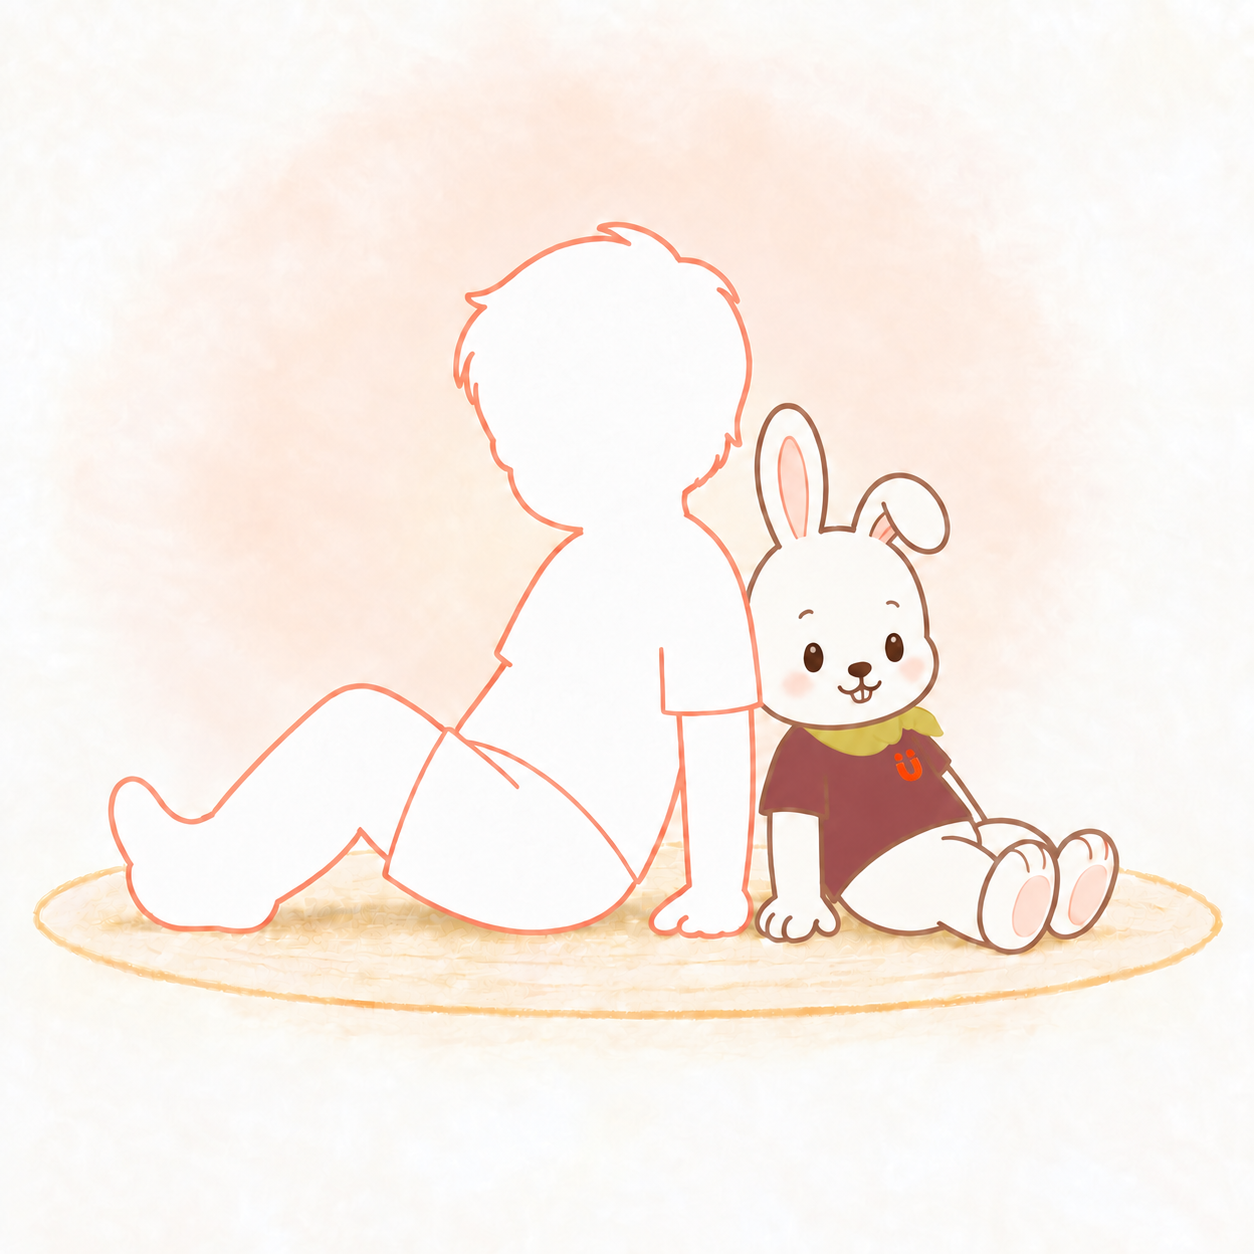
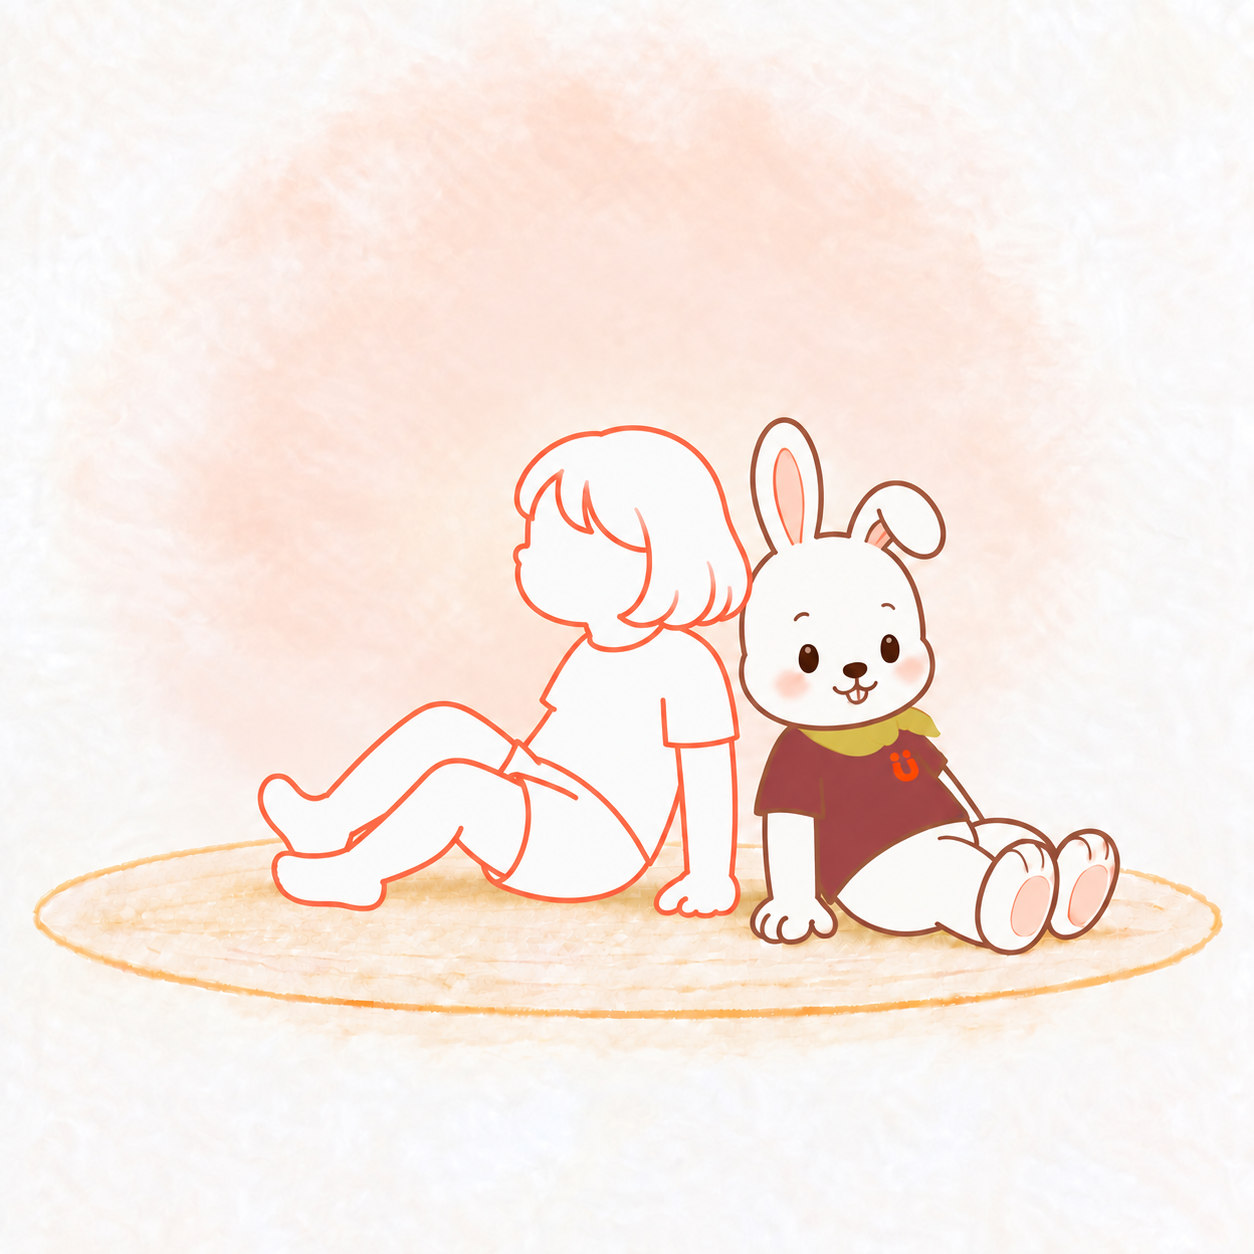
Unify child appearance and refine poses in Gen introduction

Changed region(s): [[0.0311, 0.1555, 0.9019, 0.8086], [0.1244, 0.7775, 0.1866, 0.8086]]

diff --git a/stories/hello-gen/index.html b/stories/hello-gen/index.html
@@ -4,19 +4,19 @@
 <section class="panel cover" id="cover" data-step="0"><div class="copy"><p class="eyebrow">HUGMAP · はじめましての絵本</p><h1>こんにちは、<br><em>ゲン</em>です。</h1><p class="lead">きみの「行きたい」、<br>いっしょに。</p><a class="start" href="#scene-hello">絵本をひらく <span>↓</span></a></div><figure><img src="assets/gen-child-leads.png" alt="行きたい方を指さす子どもと、手をつないで歩くGen" width="1254" height="1254" fetchpriority="high"></figure></section>
 <section class="panel scene " id="scene-hello" data-step="1">
 <div class="copy"><p class="eyebrow" aria-label="1ページ">01</p><h2>からだを 動かして、<br>あそぶのが だいすき。</h2><p class="story-text">ころころ、ボールが きた！<br>きみと あそぶと、ぼくも わくわく。<br><br>「やってみたい」を 見つけると、<br>つい、はりきっちゃう。</p></div>
-<figure class="bubble-art "><span class="bubble speech" role="note" aria-label="ゲンの声：こんどは、ぼくから！">こんどは、ぼくから！</span><img src="assets/gen-ball-roll.png" alt="座って子どもから転がってくるボールを迎えるGen" width="1254" height="1254" loading="lazy"></figure><a class="next" href="#scene-stairs" aria-label="次のページへ">↓</a></section>
+<figure class="bubble-art "><span class="bubble speech" role="note" aria-label="ゲンの声：こんどは、ぼくから！">こんどは、ぼくから！</span><img src="assets/gen-ball-roll.png?art=child-bob" alt="座って子どもから転がってくるボールを迎えるGen" width="1254" height="1254" loading="lazy"></figure><a class="next" href="#scene-stairs" aria-label="次のページへ">↓</a></section>
 <section class="panel scene reverse" id="scene-stairs" data-step="2">
 <div class="copy"><p class="eyebrow" aria-label="2ページ">02</p><h2>あっ。<br>ぼくだけ、先に。</h2><p class="story-text">階段を おりるとき。<br>ぼくは 先に 進んだけれど、<br>きみは、足を 出そうとして いる。<br><br>いそがなくて いいよ。<br>どこが むずかしいかな。</p></div>
-<figure class="bubble-art "><span class="bubble thought" role="note" aria-label="ゲンの心の声：ぼく、はりきりすぎた。">ぼく、はりきりすぎた。</span><img src="assets/gen-stairs-observe.png" alt="階段の下の段から、足を下ろそうとする子どもを見上げるGen" width="1254" height="1254" loading="lazy"></figure><a class="next" href="#scene-observe" aria-label="次のページへ">↓</a></section>
+<figure class="bubble-art "><span class="bubble thought" role="note" aria-label="ゲンの心の声：ぼく、はりきりすぎた。">ぼく、はりきりすぎた。</span><img src="assets/gen-stairs-observe.png?art=child-proportions" alt="階段の下の段から、足を下ろそうとする子どもを見上げるGen" width="1254" height="1254" loading="lazy"></figure><a class="next" href="#scene-observe" aria-label="次のページへ">↓</a></section>
 <section class="panel scene " id="scene-observe" data-step="3">
 <div class="copy"><p class="eyebrow" aria-label="3ページ">03</p><h2>動きを 見て、<br>支え方を 考える。</h2><p class="story-text">片足を 動かすとき、<br>からだは どう 動くかな。<br><br>手すりの 高さ。段の 高さ。<br>どんな 支えが あると よいか、<br>おうちの人と いっしょに 考える。</p></div>
-<figure class="bubble-art observation-art"><div class="observation-thoughts"><span class="bubble thought" role="note" aria-label="ゲンの心の声：残った 足で、支えられるかな。">残った 足で、<br>支えられるかな。</span><span class="bubble thought" role="note" aria-label="ゲンの心の声：手すりは、つかみやすいかな。">手すりは、<br>つかみやすいかな。</span></div><img src="assets/gen-stairs-observe.png" alt="手すりに手を添えて階段を下りる子どもと、下から見守るGen" width="1254" height="1254" loading="lazy"></figure><a class="next" href="#scene-support" aria-label="次のページへ">↓</a></section>
+<figure class="bubble-art observation-art"><div class="observation-thoughts"><span class="bubble thought" role="note" aria-label="ゲンの心の声：残った 足で、支えられるかな。">残った 足で、<br>支えられるかな。</span><span class="bubble thought" role="note" aria-label="ゲンの心の声：手すりは、つかみやすいかな。">手すりは、<br>つかみやすいかな。</span></div><img src="assets/gen-stairs-observe.png?art=child-proportions" alt="手すりに手を添えて階段を下りる子どもと、下から見守るGen" width="1254" height="1254" loading="lazy"></figure><a class="next" href="#scene-support" aria-label="次のページへ">↓</a></section>
 <section class="panel scene reverse" id="scene-support" data-step="4">
 <div class="copy"><p class="eyebrow" aria-label="4ページ">04</p><h2>手を 添えたら、<br>どうかな。</h2><p class="story-text">きみが 手を 添えやすい 台を、<br>いっしょに 選ぼう。<br>ぼくも となりで、からだを くるり。<br><br>あ、きみも 向けたね。<br>この 支えが あると、どう？</p></div>
-<figure class="bubble-art "><span class="bubble thought" role="note" aria-label="ゲンの心の声：支えが あると、動きやすさは 変わるかな。">支えが あると、<br>動きやすさは 変わるかな。</span><img src="assets/gen-supported-twist.png" alt="台に手を添えて身体をひねる子どもと、隣で同じ方向へ腕を伸ばすGen" width="1254" height="1254" loading="lazy"></figure><a class="next" href="#scene-rest" aria-label="次のページへ">↓</a></section>
+<figure class="bubble-art "><span class="bubble thought" role="note" aria-label="ゲンの心の声：支えが あると、動きやすさは 変わるかな。">支えが あると、<br>動きやすさは 変わるかな。</span><img src="assets/gen-supported-twist.png?art=child-bob" alt="台に手を添えて身体をひねる子どもと、隣で同じ方向へ腕を伸ばすGen" width="1254" height="1254" loading="lazy"></figure><a class="next" href="#scene-rest" aria-label="次のページへ">↓</a></section>
 <section class="panel scene " id="scene-rest" data-step="5">
 <div class="copy"><p class="eyebrow" aria-label="5ページ">05</p><h2>ここで、ひとやすみ。</h2><p class="story-text">たくさん 動いたら、ひと息。<br>ぼくも、となりに 座ろう。<br><br>「もうすこし」より、<br>いまの きみの 様子を 見よう。</p></div>
-<figure class="bubble-art "><span class="bubble speech" role="note" aria-label="ゲンの声：つかれた？すこし 休もうか。">つかれた？<br>すこし 休もうか。</span><img src="assets/gen-rest.png" alt="地面に座って背を寄せ、子どもと一緒に休むGen" width="1254" height="1254" loading="lazy"></figure><a class="next" href="#scene-together" aria-label="次のページへ">↓</a></section>
+<figure class="bubble-art "><span class="bubble speech" role="note" aria-label="ゲンの声：つかれた？すこし 休もうか。">つかれた？<br>すこし 休もうか。</span><img src="assets/gen-rest.png?art=child-profile-legs" alt="地面に座って背を寄せ、子どもと一緒に休むGen" width="1254" height="1254" loading="lazy"></figure><a class="next" href="#scene-together" aria-label="次のページへ">↓</a></section>
 <section class="panel scene reverse" id="scene-together" data-step="6">
 <div class="copy"><p class="eyebrow" aria-label="6ページ">06</p><h2>きみの「行きたい」、<br>いっしょに。</h2><p class="story-text">きみが 指さす、その先へ。<br>今度は、きみの 歩幅で。<br><br>支えを 借りても、休みながらでも。<br>いっしょに 行ける 方法を、<br>ぼくは 見つけたい。</p></div>
 <figure class=" "><img src="assets/gen-child-leads.png" alt="子どもが行きたい方を指さし、手をつないだGenが歩幅を合わせて歩く" width="1254" height="1254" loading="lazy"></figure><a class="next" href="#afterword" aria-label="次のページへ">↓</a></section>
